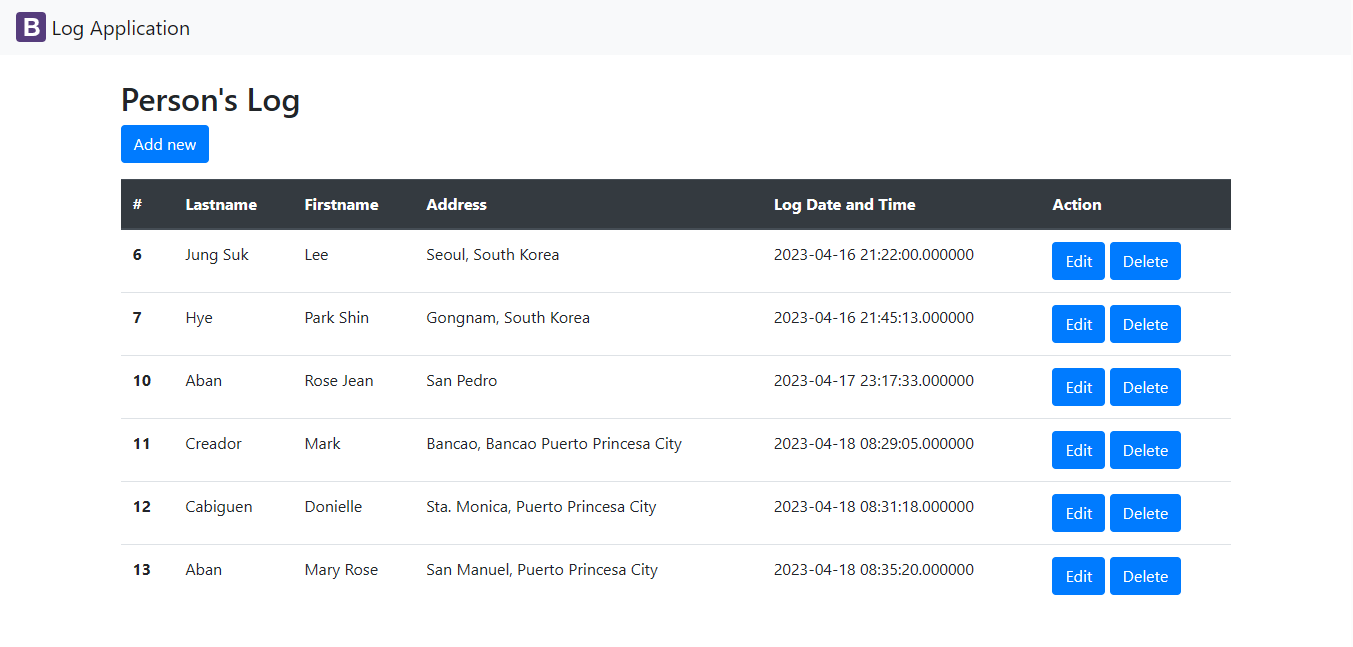
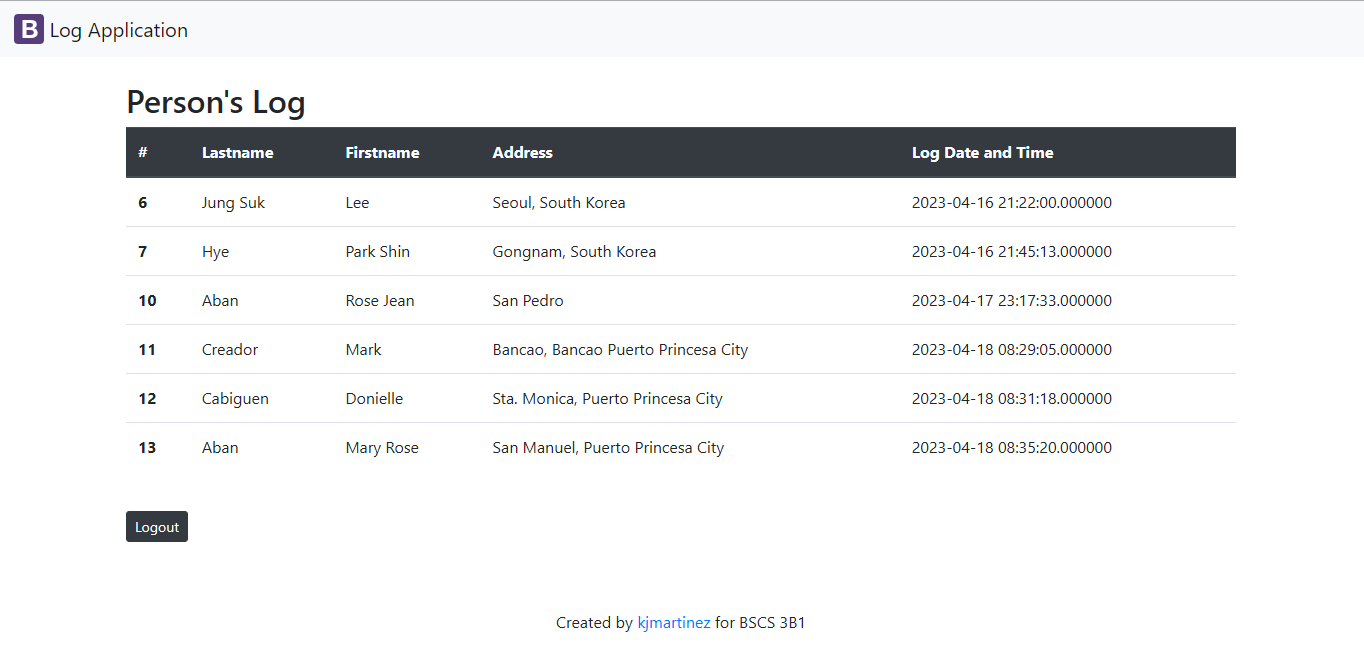
modified

diff --git a/guestbook-list.php b/guestbook-list.php
@@ -18,7 +18,7 @@
 	<div class="container">
     <br/>
 		<h2>Person's Log</h2>
-        <a href="add.php" class = "btn btn-primary mb-3">Add new</a>
+        
         <table class="table table-hover">
                 <thead class="thead-dark">
                     <tr>
@@ -27,17 +27,14 @@
                     <th scope="col">Firstname</th>
                     <th scope="col">Address</th>
                     <th scope="col">Log Date and Time</th>
-                    <th scope="col">Action</th>
+                    
                     </tr>
                 </thead>
 		
 			<div class="well">
                 <tbody>
                 <?php 
-                    include "config/db.php";
-                    $sql = "SELECT * FROM `person`";
-                    $result = mysqli_query($conn, $sql);
-                    while ($row = mysqli_fetch_assoc($result)){
+                
                 foreach($persons as $person) :?>
                     <tr>
                     <th scope="row"><?php echo $person['pid'] ?></th>
@@ -45,13 +42,9 @@
                     <td><?php echo $person['firstname']?></td>
                     <td><?php echo $person['address'] ?></td>
                     <td><?php echo $person['logdt'] ?></td>
-                    <td>
-                            <a href="edit.php?pid=<?php echo $person['pid'] ?>" class="link-dark"><button class="btn btn-primary" type="submit">Edit</button></a>
-                            <a href="delete.php?pid=<?php echo $person['pid'] ?>" class="link-dark"><button class="btn btn-primary" type="submit">Delete</button></i></a>
-                            
-                    </td>
+                    
                     </tr>
-                <?php endforeach; }
+                <?php endforeach; 
                 ?>   
         
                 </tbody>

diff --git a/readme.md b/readme.md
@@ -10,6 +10,7 @@ This repo is for Practice Set 5-06
     A   "logging application," is a type of software tool that is designed to accessing the list of the guest you will able to see or keep track of types of data such as the names, date and time, address of the guests.
 
 # Visuals
+![Funny GIF](giphy.gif)
 
 ### __Installation__
 
